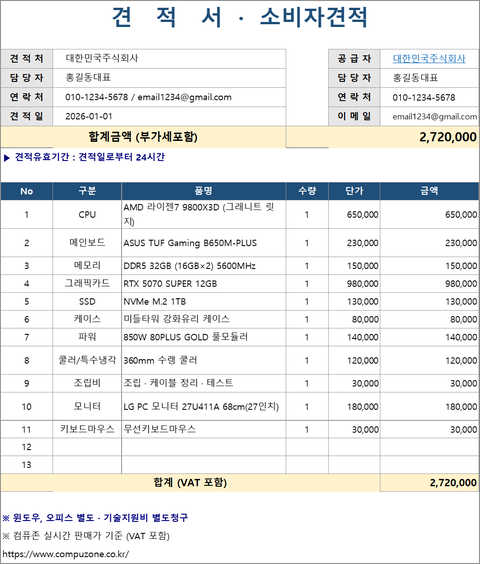
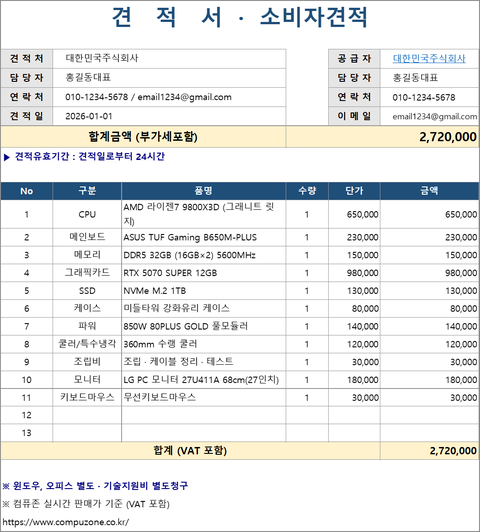
fix: Complete merged-cell borders and even out row heights in Excel quote forms
- Border every cell of merged ranges (form 1 total box, parts-table total row)
  so Excel draws the right and bottom edges; draw form 3/4 header boxes after
  merging so the outer line is not replaced by the inner one
- Recalibrate the row-height width estimator against Excel auto-fit
  (Hangul 1.68, measured symbol widths, hyphen break points, bold factor)
- Shrink-to-fit category cells instead of wrapping so they never drive row height
- Regenerate form thumbnails; note the fix in README and the manual

diff --git a/templates/사용설명서.html b/templates/사용설명서.html
@@ -106,6 +106,7 @@
         <ul>
           <li><strong>🔗 견적서 공급자 상호에 제품 링크</strong>: 폼1~폼8의 공급자(보내는 이) 상호가 그 견적의 컴퓨존 제품 페이지(Apple 견적은 공식몰 페이지)로 가는 파란 밑줄 링크가 됩니다. (<a href="#s12">12번 항목</a>)</li>
           <li><strong>📧 견적처 이메일 표시</strong>: 📇 견적 정보의 견적처 이메일이 폼1~폼8의 견적처 연락처 옆에 들어갑니다. 행을 늘리지 않아 서식 모양은 그대로입니다. (<a href="#s12">12번 항목</a>)</li>
+          <li><strong>📐 Excel 견적서 테두리 · 행 높이 정리</strong>: 병합 칸(폼1 합계금액 칸, 모든 폼의 합계 행)에서 오른쪽 · 아래 테두리가 빠지던 문제와 폼3 · 폼4 상단 박스의 오른쪽 선이 끊기던 문제를 고쳤습니다. 한 줄짜리 구분 · 품명 때문에 행 높이가 들쭉날쭉하던 것도 실제 Excel 글자 폭 기준으로 맞췄습니다. (<a href="#s12">12번 항목</a>)</li>
           <li><strong>📥 상단 버튼 이름 변경</strong>: "Excel 다운로드"가 <strong>[전체 비교 Excel]</strong>로 바뀌었습니다. 현재 목록 전체를 견적요약 비교표와 함께 한 파일로 받는 버튼이며, 최종 견적서 1건은 카드의 [엑셀 견적서]나 [서식 미리보기]를 씁니다. (<a href="#s11">11번 항목</a>)</li>
         </ul>
       </div>

diff --git a/app/excel_export.py b/app/excel_export.py
@@ -192,7 +192,12 @@ def _draw_box(
     outer: Side | None = None,
     inner: Side | None = None,
 ) -> None:
-    """영역 외곽/내부 선으로 사각형 박스를 그린다."""
+    """영역 외곽/내부 선으로 사각형 박스를 그린다.
+
+    병합(merge_cells)을 모두 끝낸 뒤에 호출한다. openpyxl 은 병합 시 왼쪽 위 셀 외의 셀을 새로 만들어
+    테두리를 지우고 왼쪽 위 셀의 테두리(안쪽 선)를 가장자리에 복사하므로, 먼저 그리면 박스 오른쪽·아래 선이
+    안쪽 선으로 바뀌어 폼3·폼4 상단 박스가 깨진다.
+    """
     outer = outer or Side(style="medium", color="333333")
     inner = inner or Side(style="thin", color="999999")
     for rr in range(r1, r2 + 1):
@@ -203,6 +208,18 @@ def _draw_box(
                 top=outer if rr == r1 else inner,
                 bottom=outer if rr == r2 else inner,
             )
+
+
+def _border_range(ws, ref: str, border: Border) -> None:
+    """병합 범위(예: "A7:C7") 안의 모든 셀에 같은 테두리를 건다. 병합한 뒤에 호출한다.
+
+    엑셀은 병합 셀의 테두리를 범위 안 셀 하나하나의 테두리로 그린다. openpyxl 은 merge_cells() 시점에만
+    왼쪽 위 셀의 테두리를 가장자리 셀에 복사하므로, 병합한 뒤 왼쪽 위 셀에만 테두리를 주면
+    오른쪽·아래 선이 빠진다(합계 행 아래 선이 첫 칸에서 끊기는 증상).
+    """
+    for row in ws[ref]:
+        for cell in row:
+            cell.border = border
 
 
 def _apply_page_setup(ws, one_page: bool = True) -> None:
@@ -223,29 +240,63 @@ def _apply_page_setup(ws, one_page: bool = True) -> None:
     ws.print_options.horizontalCentered = True
 
 
-# 행 높이 추정용 글자 폭(열 너비 단위). 엑셀 실제 줄바꿈 위치에 맞춰 보정한 값이다.
-# 한글을 2칸, 공백·괄호를 1칸으로 세면 한 줄짜리 품명도 두 줄로 잡혀 행이 불필요하게 커지고
-# 그만큼 견적서가 두 장으로 밀려난다.
-_NARROW_CHARS = set("()[]/.,:;|'`!il1-")
-_WIDE_ASCII = set("mwMW@%&")
-# 열 너비 중 실제로 글자가 들어가는 비율(셀 안쪽 여백 포함). 엑셀 출력물에서 잰 값.
-WRAP_CAPACITY_RATIO = 0.86
+# 행 높이 추정용 글자 폭(열 너비 단위, 맑은 고딕 10pt). Excel 의 행 자동 맞춤으로 품명·구분 문자열 40여 개가
+# "한 줄에 들어가는 최소 열 너비"를 재고 글자 종류별로 최소제곱 맞춤한 값이다(오차 ±2%).
+# 예전 값(한글 1.8 · 대문자 1.15 에 여유 비율 0.86)은 실제보다 10~25% 커서 한 줄짜리 구분·품명도 두 줄로
+# 계산돼 행 높이가 들쭉날쭉해지고 견적서가 두 장으로 밀렸다.
+_WIDE_LETTERS = set("MW")
+_WIDE_LOWER = set("mw")
+_NARROW_LETTERS = set("Iijl")
+_DOT_CHARS = set(".,:;'`!·")
+_BRACKET_CHARS = set("()[]{}|")
+_SLASH_CHARS = set("-/\\")
+# 폭이 유난히 다른 기호(URL 의 @ & % = ? 등). 잰 값 그대로 둔다.
+_SYMBOL_WIDTHS = {
+    "@": 1.66, "&": 1.33, "%": 1.41, "×": 1.17, "₩": 1.25,
+    "=": 1.16, "+": 1.16, "~": 1.16, "<": 1.16, ">": 1.16, "#": 1.0,
+    "?": 0.75, "_": 0.75, "*": 0.66, '"': 0.66, "°": 0.66,
+}
+# 추정 오차 여유(3%). 모자라게 잡으면 마지막 줄이 잘려 보이므로 넉넉한 쪽으로만 둔다.
+WRAP_CAPACITY_RATIO = 0.97
+# 굵은 글꼴은 같은 글자가 약 6% 넓다.
+BOLD_WIDTH_FACTOR = 1.06
 
 
 def _char_width(ch: str) -> float:
-    if ord(ch) > 127:
-        return 1.8 if ("\uac00" <= ch <= "\ud7a3" or "\u3130" <= ch <= "\u318f") else 1.0
+    if "\uac00" <= ch <= "\ud7a3" or "\u3130" <= ch <= "\u318f":
+        return 1.68
     if ch == " ":
+        return 0.55
+    if ch in _SYMBOL_WIDTHS:
+        return _SYMBOL_WIDTHS[ch]
+    if ch in _DOT_CHARS:
+        return 0.33
+    if ch in _BRACKET_CHARS:
         return 0.5
-    if ch in _NARROW_CHARS:
-        return 0.6
-    if ch.isupper() or ch in _WIDE_ASCII:
-        return 1.15
-    return 1.0
+    if ch in _SLASH_CHARS:
+        return 0.66
+    if ch in _NARROW_LETTERS:
+        return 0.43
+    if ch in _WIDE_LETTERS:
+        return 1.54
+    if ch in _WIDE_LOWER:
+        return 1.45
+    if ord(ch) > 127:
+        # 전각 기호(【 】 ■ ▶ 등)는 한글과 같은 폭, 그 외 기호는 영문보다 조금 넓게 본다
+        return 1.68 if ord(ch) >= 0x2E80 else 1.2
+    if ch.isdigit():
+        return 0.99
+    if ch.isupper():
+        return 1.02
+    return 0.91
 
 
 def _wrap_tokens(segment: str) -> list[str]:
-    """엑셀 줄바꿈 단위: 영문·숫자 낱말은 통째로, 한글 등은 글자 단위, 공백은 따로."""
+    """엑셀 줄바꿈 단위: 영문·숫자 낱말은 통째로, 한글 등은 글자 단위, 공백은 따로.
+
+    엑셀은 하이픈(-) 뒤에서도 줄을 바꾸므로 하이픈까지를 한 낱말로 끊는다. 공백 없는 긴 URL 이
+    'buy-mac/macbook-pro' 처럼 하이픈마다 끊겨 글자 단위로 채울 때보다 한 줄 더 나오는 경우를 맞춘다.
+    """
     tokens: list[str] = []
     word = ""
     for ch in segment:
@@ -254,6 +305,9 @@ def _wrap_tokens(segment: str) -> list[str]:
                 tokens.append(word)
                 word = ""
             tokens.append(ch)
+        elif ch == "-":
+            tokens.append(word + ch)
+            word = ""
         else:
             word += ch
     if word:
@@ -317,6 +371,8 @@ def _auto_fit_row_heights(ws) -> None:
         size = (cell.font.size if cell.font and cell.font.size else 10.0)
         scale = max(size / 10.0, 0.8)
         usable = max(width * WRAP_CAPACITY_RATIO, 1.0) / scale
+        if cell.font and cell.font.bold:
+            usable /= BOLD_WIDTH_FACTOR  # 굵은 글꼴은 폭만 넓어지고 줄 높이는 같다
         lines = min(_lines_needed(cell.value, usable), MAX_WRAP_LINES)
         return lines * LINE_HEIGHT * scale + ROW_PADDING
 
@@ -709,7 +765,7 @@ def build_excel(
             amt_val = _maybe_price(part.amount) if has_amount else None
             values = [
                 (1, part.no, center, None),
-                (2, part.category, center, None),
+                (2, part.category, fit_center, None),  # 구분은 짧은 고정 문구라 줄바꿈 대신 축소(행 높이 고정)
                 (3, part.name, left, None),
                 (4, part.qty if part.qty > 0 else None, center, None),
                 (5, unit_val, right, "#,##0"),
@@ -735,8 +791,9 @@ def build_excel(
         if t_fill:
             ws[f"A{r}"].fill = t_fill
             ws[f"F{r}"].fill = t_fill
-        _set_cell(ws[f"A{r}"], font=bold_fnt, border=tbl_border, alignment=center)
+        _set_cell(ws[f"A{r}"], font=bold_fnt, alignment=center)
         _set_cell(ws[f"F{r}"], font=bold_fnt, border=tbl_border, alignment=right, number_format="#,##0")
+        _border_range(ws, f"A{r}:E{r}", tbl_border)  # 병합 칸 전체에 테두리(아래 선이 A 칸에서 끊기지 않게)
 
         r += 2
         ws.merge_cells(f"A{r}:F{r}")
@@ -820,9 +877,11 @@ def build_excel(
         ws1.merge_cells("D7:F7")
         for ref in ("A7", "D7"):
             ws1[ref].fill = PatternFill("solid", fgColor="FFF2CC")
-        _set_cell(ws1["A7"], font=Font(name=FONT_NAME, size=12, bold=True), border=border, alignment=center)
-        _set_cell(ws1["D7"], font=Font(name=FONT_NAME, size=14, bold=True), border=border, alignment=right, number_format="#,##0")
-        
+        _set_cell(ws1["A7"], font=Font(name=FONT_NAME, size=12, bold=True), alignment=center)
+        _set_cell(ws1["D7"], font=Font(name=FONT_NAME, size=14, bold=True), alignment=right, number_format="#,##0")
+        _border_range(ws1, "A7:C7", border)
+        _border_range(ws1, "D7:F7", border)
+
         ws1.row_dimensions[7].height = TOTAL_ROW_HEIGHT
 
         _write_validity_note(ws1, 8)  # 표 헤더(10행) 직전 빈 행
@@ -892,7 +951,7 @@ def build_excel(
             ws2.cell(row=r, column=6, value=_maybe_price(p.amount)).border = inv_border
             
             _set_cell(ws2.cell(row=r, column=1), font=normal, alignment=center)
-            _set_cell(ws2.cell(row=r, column=2), font=normal, alignment=center)
+            _set_cell(ws2.cell(row=r, column=2), font=normal, alignment=fit_center)
             _set_cell(ws2.cell(row=r, column=3), font=normal, alignment=left)
             _set_cell(ws2.cell(row=r, column=4), font=normal, alignment=center)
             _set_cell(ws2.cell(row=r, column=5), font=normal, alignment=right, number_format="#,##0")
@@ -937,12 +996,6 @@ def build_excel(
         ws3["A1"].font = Font(name="Malgun Gothic", size=20, bold=True, color="E67E22")
         ws3["A1"].alignment = left
         
-        # 큰 박스에 요약 정보
-        _draw_box(ws3, 3, 1, 5, 6, outer=Side(style="medium", color="E67E22"), inner=Side(style="thin", color="FFFFFF"))
-        for rr in range(3, 6):
-            for cc in range(1, 7):
-                ws3.cell(row=rr, column=cc).fill = PatternFill("solid", fgColor="FDF2E9")
-                
         ws3["A3"] = f"To: {cust_name} ({cust_line})"
         ws3.merge_cells("A3:C3")
         _set_cell(ws3["A3"], font=bold, alignment=fit)
@@ -963,7 +1016,13 @@ def build_excel(
         ws3["D4"] = q.total
         ws3.merge_cells("D4:F5")
         _set_cell(ws3["D4"], font=Font(name=FONT_NAME, size=22, bold=True, color="E67E22"), alignment=right, number_format="₩ #,##0")
-        
+
+        # 요약 정보 박스. 병합을 모두 끝낸 뒤 그려야 오른쪽·아래 선이 남는다(_draw_box 설명 참고).
+        _draw_box(ws3, 3, 1, 5, 6, outer=Side(style="medium", color="E67E22"), inner=Side(style="thin", color="FFFFFF"))
+        for rr in range(3, 6):
+            for cc in range(1, 7):
+                ws3.cell(row=rr, column=cc).fill = PatternFill("solid", fgColor="FDF2E9")
+
         _write_validity_note(ws3, 6)  # 표 헤더(7행) 직전 빈 행
 
         r = 7
@@ -1019,7 +1078,6 @@ def build_excel(
         ws4.merge_cells("A3:F3")
         _set_cell(ws4["A3"], font=normal, alignment=right)
         
-        _draw_box(ws4, 4, 1, 5, 6, outer=Side(style="medium", color="27AE60"))
         ws4["A4"] = f" 수신 (To) : {cust_name} - {cust_mgr} 귀하" + (f" ({cust_contact})" if cust_contact else "")
         ws4["A5"] = _name_link_text(
             " 발신 (From): ",
@@ -1052,7 +1110,9 @@ def build_excel(
             alignment=center,
             number_format='#,##0" 원"',
         )
-        
+        # 수신/발신 박스. 병합을 모두 끝낸 뒤 그려야 오른쪽 선이 굵은 초록으로 남는다(_draw_box 설명 참고).
+        _draw_box(ws4, 4, 1, 5, 6, outer=Side(style="medium", color="27AE60"))
+
         _write_validity_note(ws4, 6)  # 표 헤더(7행) 직전 빈 행
 
         r = 7
@@ -1073,7 +1133,7 @@ def build_excel(
             ws4.cell(row=r, column=6, value=_maybe_price(p.amount)).border = dash_border
             
             _set_cell(ws4.cell(row=r, column=1), font=normal, alignment=center)
-            _set_cell(ws4.cell(row=r, column=2), font=bold, alignment=center)
+            _set_cell(ws4.cell(row=r, column=2), font=bold, alignment=fit_center)
             _set_cell(ws4.cell(row=r, column=3), font=normal, alignment=left)
             _set_cell(ws4.cell(row=r, column=4), font=normal, alignment=center)
             _set_cell(ws4.cell(row=r, column=5), font=normal, alignment=right, number_format="#,##0")
@@ -1231,7 +1291,7 @@ def build_excel(
             ws6.cell(row=r6, column=6, value=as_text)
             ws6.cell(row=r6, column=7, value=remark_text)
 
-            _set_cell(ws6.cell(row=r6, column=1), font=normal, border=border, alignment=center)
+            _set_cell(ws6.cell(row=r6, column=1), font=normal, border=border, alignment=fit_center)
             _set_cell(ws6.cell(row=r6, column=2), font=normal, border=border, alignment=left)
             _set_cell(ws6.cell(row=r6, column=3), font=normal, border=border, alignment=center)
             _set_cell(ws6.cell(row=r6, column=4), font=normal, border=border, alignment=right, number_format="#,##0")
@@ -1356,7 +1416,7 @@ def build_excel(
         ws7.cell(row=11, column=6, value=q.total)
 
         _set_cell(ws7.cell(row=11, column=1), font=normal, border=border, alignment=center)
-        _set_cell(ws7.cell(row=11, column=2), font=bold, border=border, alignment=center)
+        _set_cell(ws7.cell(row=11, column=2), font=bold, border=border, alignment=fit_center)
         _set_cell(ws7.cell(row=11, column=3), font=normal, border=border, alignment=left)
         _set_cell(ws7.cell(row=11, column=4), font=normal, border=border, alignment=center)
         _set_cell(ws7.cell(row=11, column=5), font=normal, border=border, alignment=right, number_format="#,##0")
@@ -1406,7 +1466,7 @@ def build_excel(
             ws7.cell(row=r7, column=6, value=_spec_remark(p.category, p.name))
 
             _set_cell(ws7.cell(row=r7, column=1), font=normal, border=border, alignment=center)
-            _set_cell(ws7.cell(row=r7, column=2), font=bold, border=border, alignment=center)
+            _set_cell(ws7.cell(row=r7, column=2), font=bold, border=border, alignment=fit_center)
             _set_cell(ws7.cell(row=r7, column=3), font=normal, border=border, alignment=left)
             _set_cell(ws7.cell(row=r7, column=4), font=normal, border=border, alignment=center)
             _set_cell(ws7.cell(row=r7, column=5), font=normal, border=border, alignment=right, number_format="#,##0")
@@ -1529,7 +1589,7 @@ def build_excel(
             ws8.cell(row=r8, column=6, value=_maybe_price(p.amount))
 
             _set_cell(ws8.cell(row=r8, column=1), font=normal, border=border, alignment=center)
-            _set_cell(ws8.cell(row=r8, column=2), font=bold, border=border, alignment=center)
+            _set_cell(ws8.cell(row=r8, column=2), font=bold, border=border, alignment=fit_center)
             _set_cell(ws8.cell(row=r8, column=3), font=normal, border=border, alignment=left)
             _set_cell(ws8.cell(row=r8, column=4), font=normal, border=border, alignment=center)
             _set_cell(ws8.cell(row=r8, column=5), font=normal, border=border, alignment=right, number_format="#,##0")

diff --git a/README.md b/README.md
@@ -9,6 +9,7 @@
 1. **📥 상단 버튼 이름 변경** — "Excel 다운로드"가 **[전체 비교 Excel]**로 바뀌었습니다. 현재 목록 전체를 견적요약 비교표와 함께 한 파일로 받는 버튼이며, 최종 견적서 1건은 카드의 [엑셀 견적서]나 [서식 미리보기]를 씁니다.
 2. **🔗 견적서 공급자 상호에 제품 링크** — 폼1~폼8의 공급자(보내는 이) 상호가 그 견적의 컴퓨존 제품 페이지(Apple 견적은 공식몰 페이지)로 가는 파란 밑줄 링크가 됩니다. 상호 글자만 링크이고 칸 위치와 행 수는 그대로입니다.
 3. **📧 견적처 이메일 표시** — 📇 견적 정보의 견적처 이메일이 폼1~폼8의 견적처 연락처 옆에 들어갑니다(폼7은 연락처 아래 줄, 영문 요약형 폼3·4·5는 To: 줄에 담당자 / 전화 / 이메일). 행을 늘리지 않고 한 칸에 넣어 서식 모양은 바뀌지 않습니다.
+4. **📐 Excel 견적서 테두리 · 행 높이 정리** — 병합 칸(폼1 합계금액 칸, 모든 폼의 합계 행)에서 오른쪽·아래 테두리가 빠지던 문제와 폼3 · 폼4 상단 요약 박스의 오른쪽 선이 끊기거나 가늘어지던 문제를 고쳤습니다. 한 줄짜리 구분 · 품명이 두 줄로 계산돼 행 높이가 들쭉날쭉하던 것도 실제 Excel 글자 폭을 재서 맞췄습니다(구분 칸은 줄바꿈 대신 칸에 맞춰 축소). 서식 썸네일도 다시 만들었습니다.
 
 ## Ver X.25 주요 변경
 
